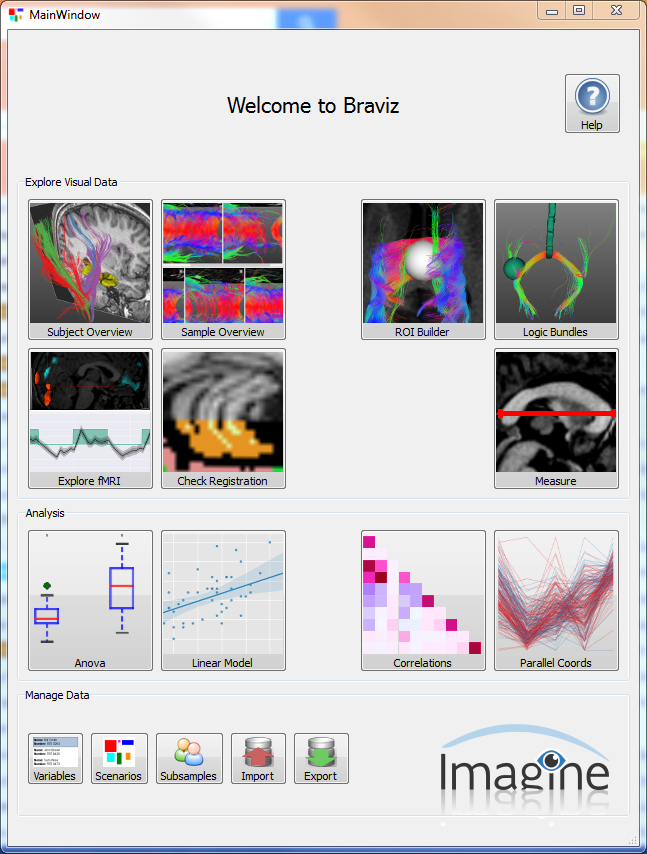
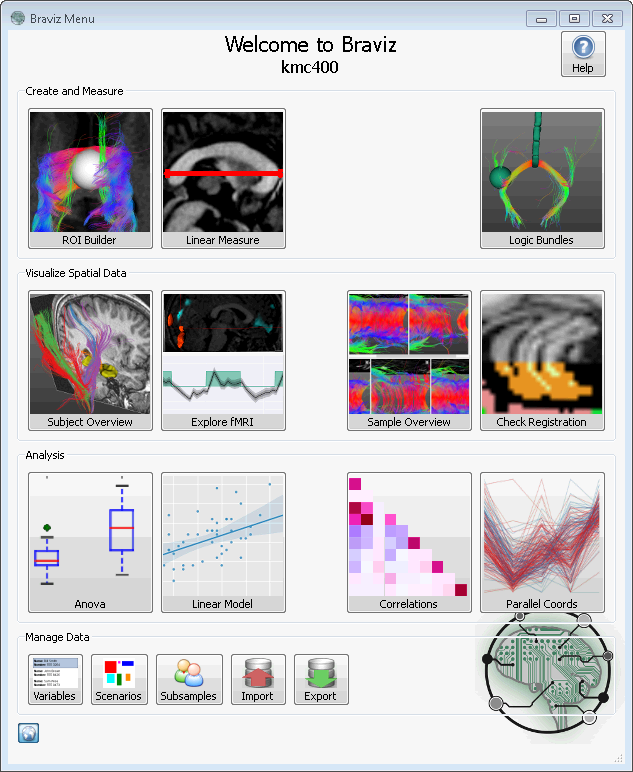
description

diff --git a/braviz_visual_analysis.tex b/braviz_visual_analysis.tex
@@ -160,7 +160,7 @@ This paper presents BRAVIZ, a software tool to facilitate visual exploration of 
 
 BRAVIZ was designed following a "user centered" approach\citep{fernandez_user-centered_2013,wassink_applying_2009}. The authors worked closely with brain researchers of several specialties, visited several labs and hospitals, and learned as much as possible about typical neuroscience research workflows. An extensive literature review in the domain led to better understanding of the kinds of data patterns neuroscience researchers find interesting. In addition, the graphics and pictures in these publications were used as models for BRAVIZ visualizations so that they would look familiar to the neuroscience research community. The design, development and evaluation process consisted of several iterative cycles, prototypes were shared with domain experts, and their feedback motivated design ideas and usability enhancements for the next generation. As the development cycles progressed, the domain experts ventured further away from common paradigms; they were encouraged to dream, and not to worry about how complex it would be to implement the ideas. 
 
-Instead of one large application with numerous features and controls, BRAVIZ is divided into several small tools. This tools are designed to analyze cohort data, i.e., data that is composed from a set of subjects with several measures. Smaller samples of subjects, or subsamples, can also be analyzed and compared against each other. Nominal or numerical measures of the subjects are called variables, and these complement the neuro-image based spatial data. Note that the set of variables can be extended by deriving new values from spatial data or existing variables. 
+Instead of one large application with numerous features and controls, BRAVIZ is divided into several small tools. Individual tools are tailored towards specific tasks and therefore are easy to learn and use. This tools are designed to analyze cohort data, i.e., data that is composed from a set of subjects with several measures. Smaller samples of subjects, or subsamples, can also be analyzed and compared against each other. Nominal or numerical measures of the subjects are called variables, and these complement the neuro-image based spatial data. Note that the set of variables can be extended by deriving new values from spatial data or existing variables. 
 
 BRAVIZ tools combine numerical and nominal variables with spatial data. There are tools to look at spatial data from a single subject with high detail, as well as tools to look at spatial data associated with a subsample; both with numerical and categorical data as context. Another group of tools is focused on exploring these variables, but always linking back to details of each subject.
 
@@ -183,9 +183,49 @@ In a typical neuroscience research group, both types of tools (visualization and
 %Include also here the not repeated paragraphs from the Methodology (really motivation) section of the last draft.
 
 
-\subsection{Some BRAVIZ Tools}
+\subsection{BRAVIZ Tools}
 
-Not sure if this needs a different section, maybe it should be summarized into the description
+%Not sure if this needs a different section, maybe it should be summarized into the description
+
+The current set of applications comprising BRAVIZ can be divided in three categories. One set of applications focuses on displaying geometric data using other variables as context, another focuses on manual measuring or creating new descriptors from geometric data, ant the last one focuses on exploring numerical and categorical data while maintaining a link to the underlying geometric data. Additionally there are tools for importing and exporting data in spreadsheet format; so that the tools can interact with statistical software. All tools are accessible from a graphical menu as shown in figure \ref{fig_menu}. The tools included in the current version are
+
+\begin{itemize}
+\item Create and Measure: Define new scalars of geometric structures based on spatial data for the whole cohort.
+\begin{itemize}
+\item Roi Builder: Create spherical regions of interest, using images or surfaces as context.
+\item Linear Measure: Measure elements of any image using lines
+\item Logic Bundles: Define fiber bundles by doing logical operations on ROIs and segmented structures.
+\end{itemize}
+\item Visualize Spatial Data: Explore different kinds of spatial data in context.
+\begin{itemize}
+\item Subject Overview: Visualize several spatial objects, as well as context information for a single subject.
+\item Sample Overview: Repeat the same visualization for a group of subjects, sorted by a numerical variable and divided in groups by a nominal variable.
+\item Explore fMRI: Visualize BOLD timelines, experiment design and contrasts (read from spm file).
+\item Check Registration: Visualize two images at the same time to evaluate the quality of registration. 
+\end{itemize}
+\item Analysis: Analyze data from tables together with variables derived from spatial data. 
+\begin{itemize}
+\item Anova : Perform ANOVA analyzes on the database variables,
+\item Linear Model: Fit a Linear model to variables in the database.
+\item Correlations: Explore correlations between variables in the database.
+\item Parallel Coordinates: Visualize multiple variables in interactive parallel coordinates.
+\end{itemize}
+\end{itemize} 
+
+The main interface of the Subject Viewer application is shown on figure \ref{fig_subject}. This tool provides access to MRI Images, Freesurfer semgentations and reconstruction, tractographies, tracula bundles and fMRI maps; all through graphical menus. The user never needs to know which files are involved in displaying a particular scene. Some geometrical features, as volume or mean FA inside a structure, can be captured directly from  this application and added into the database as a new variable. 
+
+Below the main view (as shown in Figure \ref{fig_subject}) is a context panel, that displays the values of selected variables for the current subject. To change the current subject the user may use the controls underneath the main view, or select from the table in the subjects panel at the left. All of the current selected variables and geometric objects in the view are updated to display the information for the new subject. Thus it is straightforward to look at a certain aspect across different subjects. In the lower left corner is a control that allows the user to select between native MRI coordinate systems, Talairach space or Dartel template space (involves non linear registration). All of the geometric objects in the scene are shown in the selected coordinate space. The Talairach and Dartel spaces make it easy to compare among different subjects but may add some distortion to the objects, so the user must pick the most appropriate coordinates for the task at hand. 
+
+A small-multiples view[19] display of several subjects, as shown in figure \ref{fig_sample}, is available in the sample overview application. This application is useful for finding trends across a sample or doing quality control and spotting problematic images. Subjects are arranged from left to right according to a numerical variable, and rows are defined by a nominal variable. In the example shown the two rows are males and females, and the ordering variable is the score in a math test. The bar-plot at the right shows the distribution of the variable among the two groups and is coordinated with the 3d views.A bar-plot is used because it provides the best sense of magnitude differences for variables that have a meaningful zero. Each view shows a collection of objects defined in the subject overview application. In this way the interface is kept simple, as there is no need for visual configuration options.
+
+As before different coordinates systems can be used to make comparisons easier. The camera between the small multiples is also coordinated, if the view is changed in any of the views, the others are changed accordingly. In addition if the user is interested in getting a more detailed view of any of them, he can right click and from the context menu open a full subject viewer application with the correct scenario and subject loaded, or make all opened BRAVIZ applications switch to the corresponding subject.
+
+At the core of BRAVIZ is a database that contains clinical and demographic data, as well as results from neuropsychological tests or questionnaires; and enriched with geometric indicators generated in external tools or inside BRAVIZ. All of the individual tools that BRAVIZ provides are integrated with the database. BRAVIZ provides several common statistical analysis tools that access this database, as for example, an ANOVA  analysis, which can be completed with the application shown in figure \ref{fig_anova}. In order to perform the analysis the user must select an outcome variable, one or more regressors and optionally interaction terms. It is also possible to limit the analysis to a specific subset of subjects. Afterwards it is only necessary to click on the Calculate Anova button, which fetchs the required data from the database and performs the calculation\footnote{Maybe there is no need to mention R here}. The main plot will initially show diagnostics, i.e. distribution of residuals and a scatter plot of residuals vs fitted values. The table at the bottom right shows the resulting fitted values. By double clicking on any row a plot showing the effect of that particular term will be displayed. From this plot it is possible to right click on an outlier to get additional information, or to show him on any other opened BRAVIZ applications. This plot will also respond to messages from other applications and highlight the corresponding subject.
+
+It is worth noting that no correction for multiple comparisons is applied in the statistical tests; so care must be taken when interpreting the results. The objective here is not to prove hypotheses but to explore data and find interesting hypotheses, which should be tested using the usual methods.
+
+Figure \ref{fig_other_apps} shows several other applications currently built into the system. More information as well as the source code for the project can be found at http://diego0020.github.io/braviz
+
 
 \section{Related Work}
 
@@ -219,6 +259,39 @@ The Visual Analytics of Brain Networks\citep{li_visual_2012} (VABN) software is 
 %%% Use this if adding the figures directly in the mansucript, if so, please remember to also upload the files when submitting your article
 %%% There is no need for adding the file termination, as long as you indicate where the file is saved. In the examples below the files (logo1.jpg and logo2.eps) are in the Frontiers LaTeX folder
 %%% If using *.tif files convert them to .jpg or .png
+\begin{figure}[h!]
+\begin{center}
+\includegraphics[width=0.4\textwidth]{figures/braviz_menu.PNG}
+\end{center}
+ \textbf{\refstepcounter{figure}\label{fig_menu} Figure \arabic{figure}.}{This menu is currently used to access the different applications. It also provides facilities to review the available variables and the saved scenarios, to view and create subsamples, and to import to and export from spreadsheets.  }
+\end{figure}
 
+\begin{figure}[h!]
+\begin{center}
+\includegraphics[width=0.9\textwidth]{figures/subj_overview_full.PNG}
+\end{center}
+ \textbf{\refstepcounter{figure}\label{fig_subject} Figure \arabic{figure}.}{Main interface of the subject overview application. At the bottom of the render panel some variables about the subject are shown to provide context. At the bottom-left corner we have controls to change the coordinate system, and to move the camera to preset positions. Most of the data is available via the different tabs at the left panel. The current tab provides a list of available subjects, it is enough to double click in a row to get the selected data for that subject. The arrows directly under the 3d viewer provide another convenient way to move through the subjects following the order of the list. }
+\end{figure}
+
+\begin{figure}[h!]
+\begin{center}
+\includegraphics[width=0.9\textwidth]{figures/sample_overview.PNG}
+\end{center}
+ \textbf{\refstepcounter{figure}\label{fig_sample} Figure \arabic{figure}.}{This application gives access to the data of several subjects at the same time. Images are sorted from left to right according to a numerical variable (shown in the bars at the right) and arranged in columns by a cathegorical variable (bars color)  }
+\end{figure}
+
+\begin{figure}[h!]
+\begin{center}
+\includegraphics[width=0.9\textwidth]{figures/anova.PNG}
+\end{center}
+ \textbf{\refstepcounter{figure}\label{fig_anova} Figure \arabic{figure}.}{An application for performing ANOVA analyses using the data in the BRAVIZ database. You can right click on an outlier to select it on all open BRAVIZ applications. }
+\end{figure}
+
+\begin{figure}[h!]
+\begin{center}
+\includegraphics[width=0.9\textwidth]{figures/many_apps.png}
+\end{center}
+ \textbf{\refstepcounter{figure}\label{fig_other_apps} Figure \arabic{figure}.}{Examples of currently available applications. A) ROI builder. B) Linear model. C) Explore fMRI. D) Correlations. E) Parallel coordinates}
+\end{figure}
 
 \end{document}
